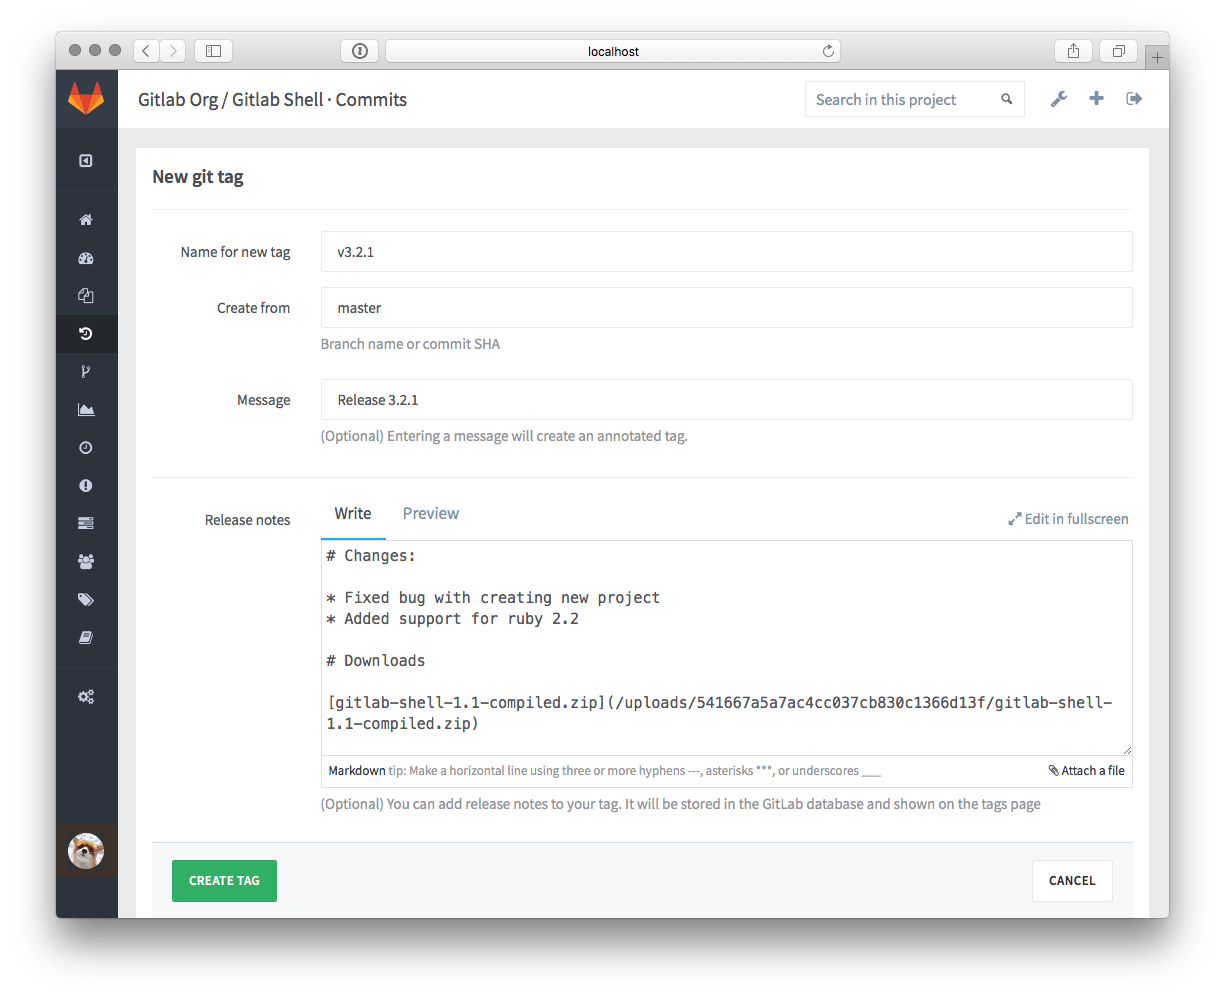
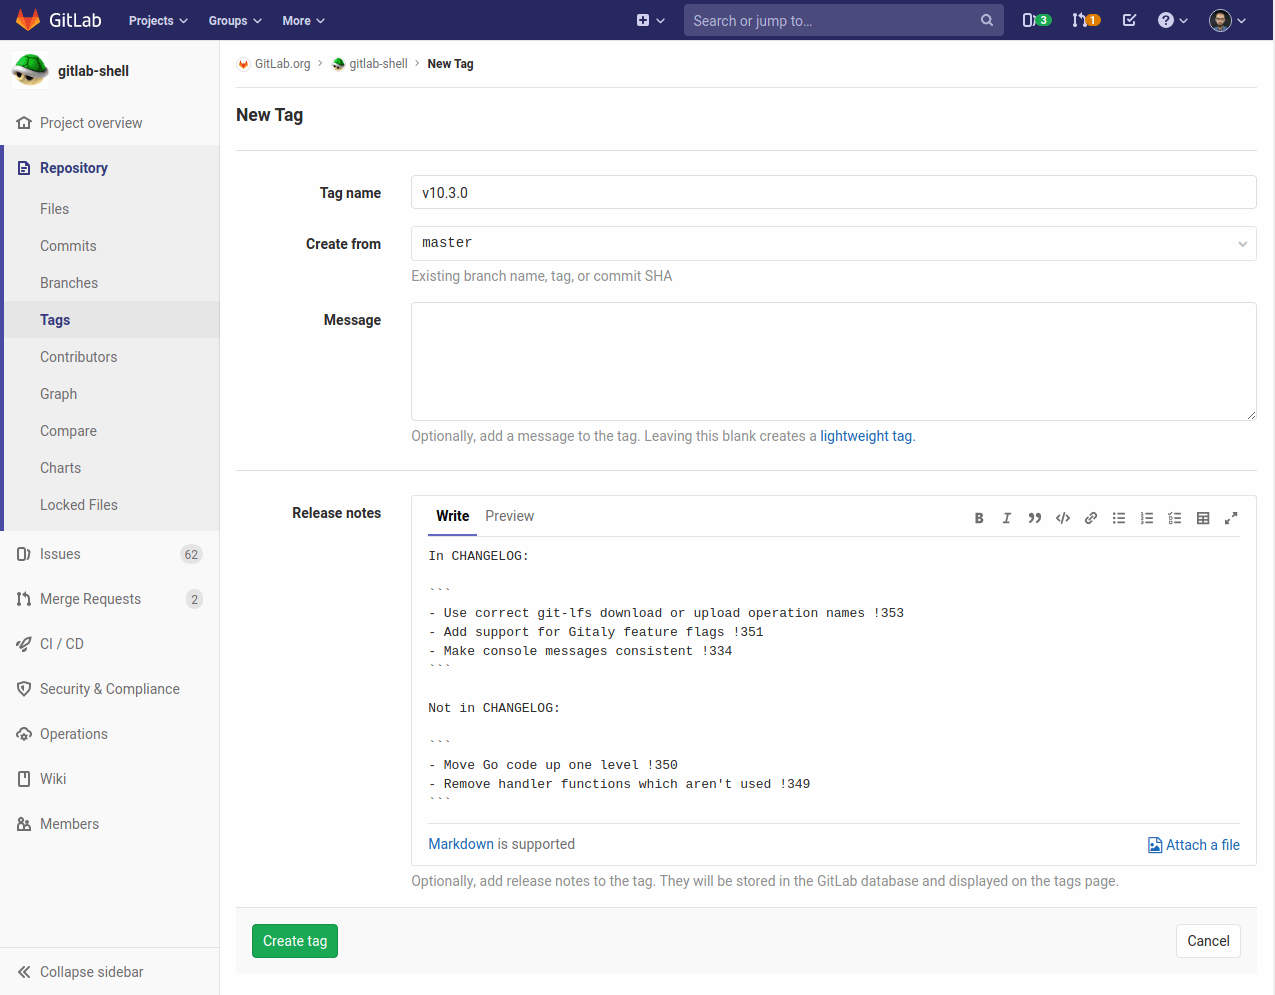
Update screenshots for tags
Previous versions, although named `*12_5`, showed UI from 2016.

diff --git a/doc/user/project/releases/index.md b/doc/user/project/releases/index.md
@@ -6,7 +6,7 @@ type: reference, howto
 
 > [Introduced](https://gitlab.com/gitlab-org/gitlab-foss/issues/41766) in GitLab 11.7.
 
-It's typical to create a [Git tag](../../../university/training/topics/tags.md) at
+It is typical to create a [Git tag](../../../university/training/topics/tags.md) at
 the moment of release to introduce a checkpoint in your source code
 history, but in most cases your users will need compiled objects or other
 assets output by your CI system to use them, not just the raw source
@@ -38,7 +38,7 @@ Release descriptions are unrelated. Description supports [Markdown](../../markdo
 
 You can currently add the following types of assets to each Release:
 
-- [Source code](#source-code): state of the repo at the time of the Release
+- [Source code](#source-code): state of the repository at the time of the Release
 - [Links](#links): to content such as built binaries or documentation
 
 GitLab will support more asset types in the future, including objects such
@@ -117,11 +117,14 @@ of GitLab.
 
 You can be notified by email when a new Release is created for your project.
 
-To subscribe to these notifications, navigate to your **Project**'s landing page, then click on the
-bell icon. Choose **Custom** from the dropdown menu. The
-following modal window will be then displayed, from which you can select **New release** to complete your subscription to new Releases notifications.
+To subscribe to Release notifications:
 
-![Custom notification - New release](img/custom_notifications_new_release_v12_4.png)
+1. Navigate to your **Project**'s landing page.
+1. Click the bell icon (**Notification setting**).
+1. Select **Custom** from the dropdown menu.
+   ![Custom notification - Dropdown menu](img/custom_notifications_dropdown_v12_5.png)
+1. Select **New release**.
+   ![Custom notification - New release](img/custom_notifications_new_release_v12_5.png)
 
 ## Add release notes to Git tags
 
@@ -145,7 +148,7 @@ You can also edit an existing tag to add release notes:
 
 ![tags](img/tags_12_5.png "Addition of note to an existing tag")
 
-## Release Evidence
+## Release evidence
 
 > [Introduced](https://gitlab.com/gitlab-org/gitlab/issues/26019) in GitLab 12.6.
 
@@ -154,11 +157,11 @@ parallel. This dataset will be a snapshot this new release (including linked
 milestones and issues) at moment of creation. Such collection of data will
 provide a chain of custody and facilitate processes like external audits, for example.
 
-The gathered Evidence data is stored in the database upon creation of a new
+The gathered evidence data is stored in the database upon creation of a new
 release as a JSON object. In GitLab 12.6, a link to
-the Evidence data is provided for [each Release](#releases-list).
+the evidence data is provided for [each Release](#releases-list).
 
-Here's what this object can look like:
+Here is what this object can look like:
 
 ```json
 {
